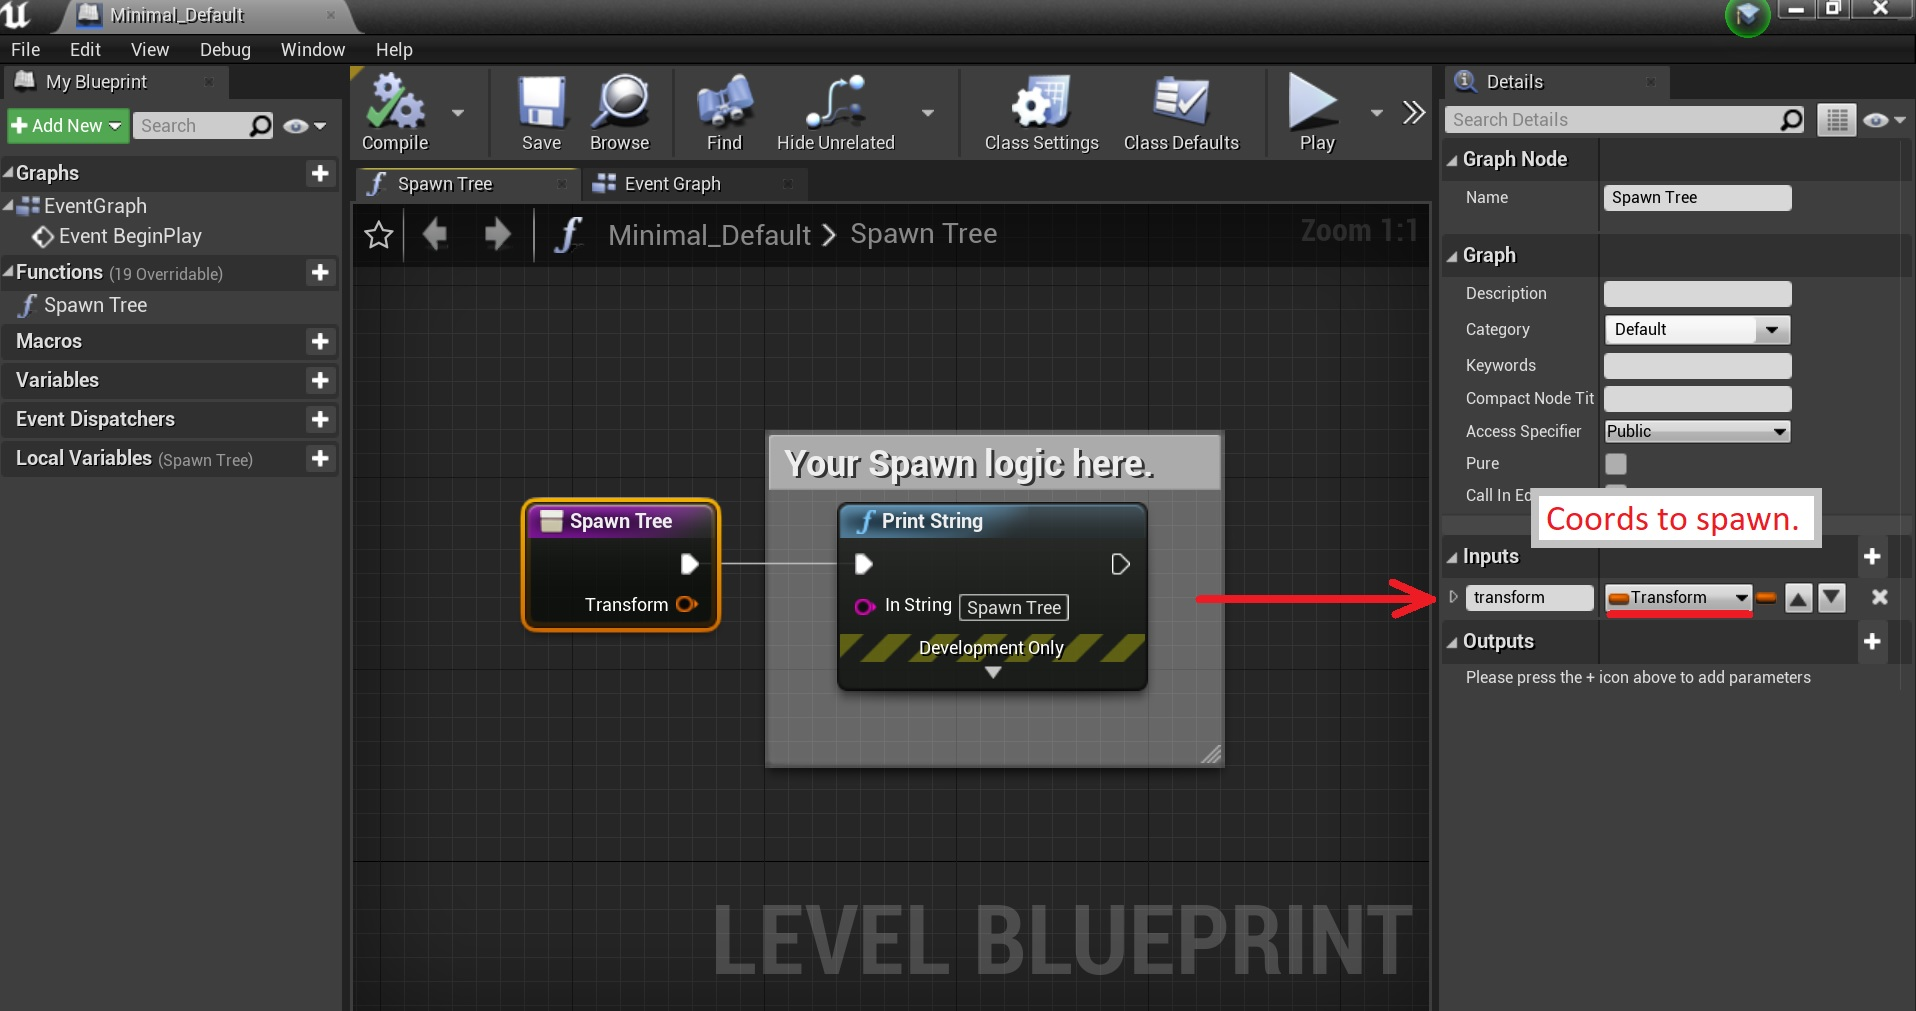
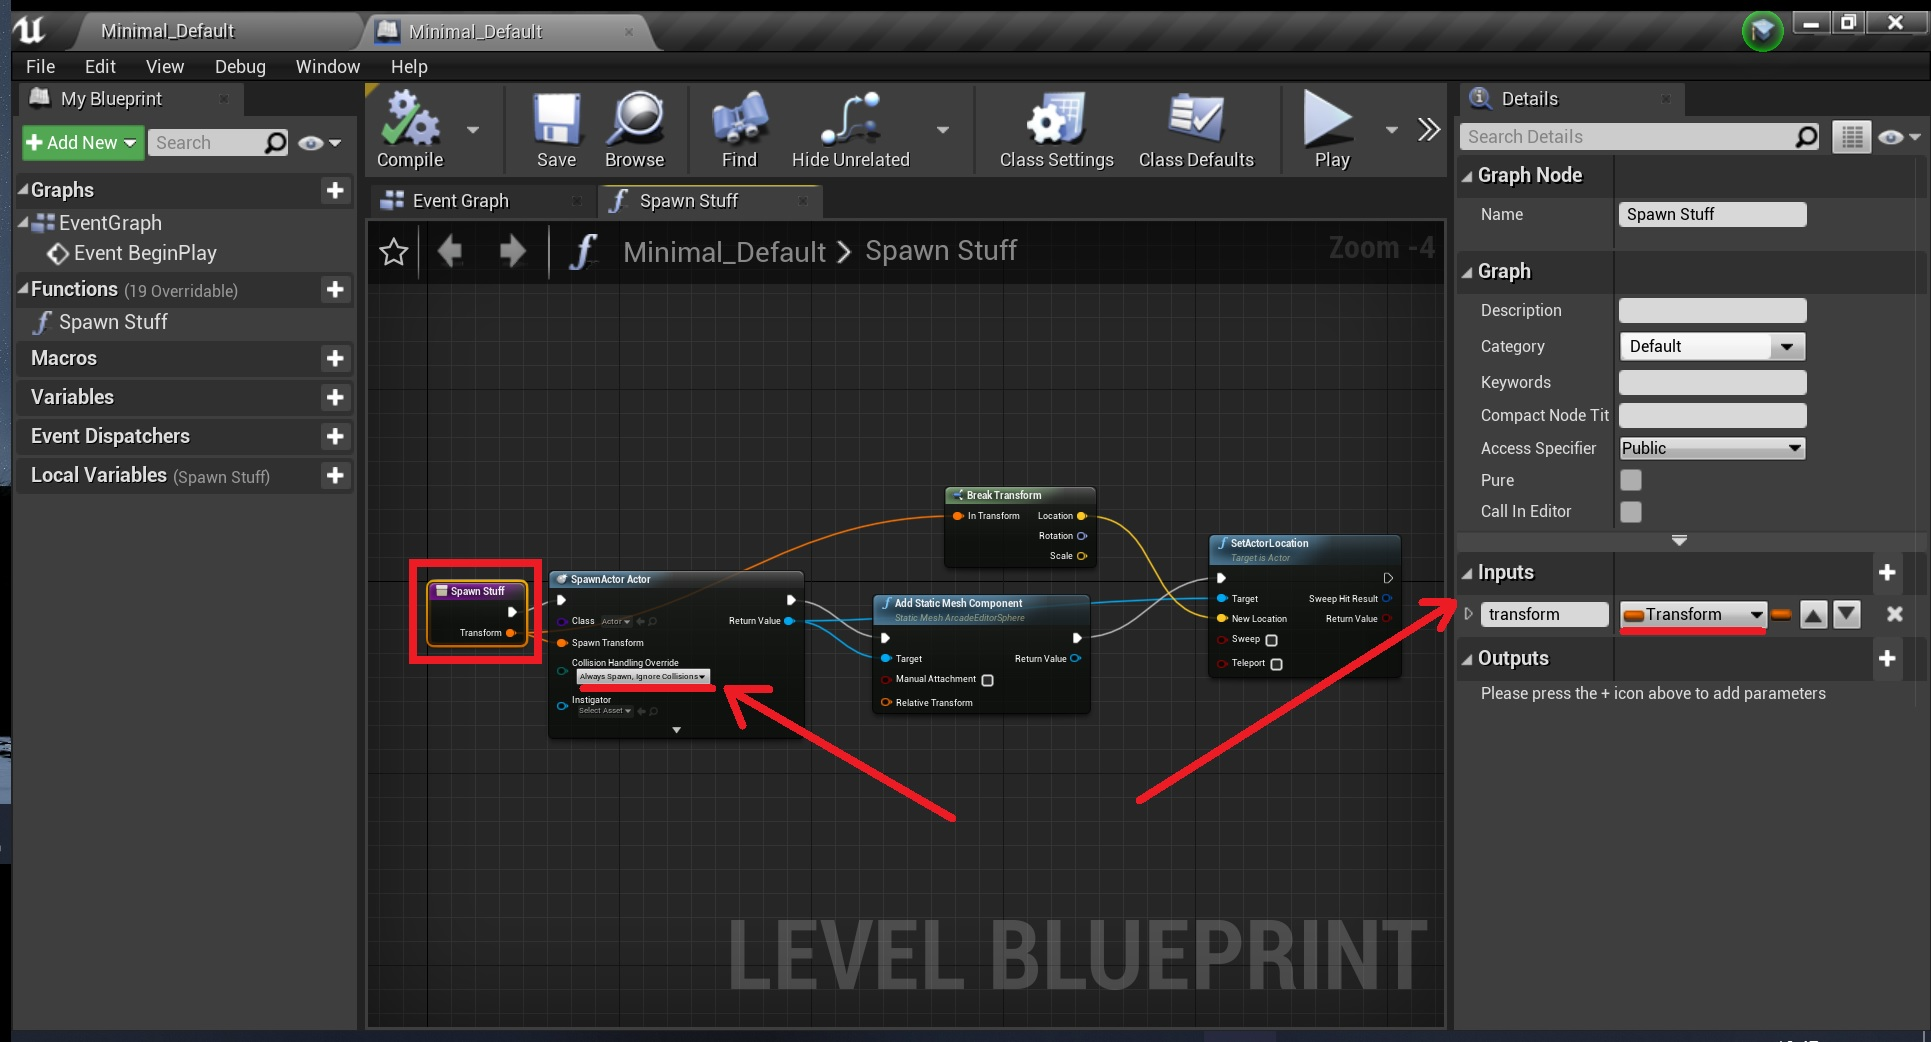
Fixed object spawns and overlap events.

Changed region(s): [[0.0, 0.0, 1.0, 1.0], [0.8314, 0.184, 0.9546, 0.2453]]

diff --git a/Source/FWorldGenerator/Private/FWGen.cpp b/Source/FWorldGenerator/Private/FWGen.cpp
@@ -146,6 +146,23 @@ void AFWGen::UnBindFunctionToSpawn(FString FunctionName)
 	}
 }
 
+void AFWGen::AddOverlapToActorClass(UClass* OverlapToClass)
+{
+	vOverlapToClasses.push_back(OverlapToClass->GetName());
+}
+
+void AFWGen::RemoveOverlapToActorClass(UClass* OverlapToClass)
+{
+	for (size_t i = 0; i < vOverlapToClasses.size(); i++)
+	{
+		if (vOverlapToClasses[i] == OverlapToClass->GetName())
+		{
+			vOverlapToClasses.erase( vOverlapToClasses.begin() + i);
+			break;
+		}
+	}
+}
+
 void AFWGen::GenerateWorld()
 {
 	if (pChunkMap)
@@ -159,13 +176,6 @@ void AFWGen::GenerateWorld()
 	if (WorldSize != -1)
 	{
 		size_t iChunkCount = (ViewDistance * 2 + 1) * (ViewDistance * 2 + 1);
-		std::vector<std::promise<bool>> vPromiseThreads(iChunkCount);
-		std::vector<std::future<bool>> vFutureThreads;
-
-		for (size_t i = 0; i < iChunkCount; i++)
-		{
-			vFutureThreads.push_back(vPromiseThreads[i].get_future());
-		}
 
 
 		// Generate the chunks.
@@ -184,47 +194,19 @@ void AFWGen::GenerateWorld()
 					bAroundCenter = true;
 				}
 
-				std::thread tGenerateChunk(&AFWGen::generateChunk, this, std::move(vPromiseThreads[iSectionIndex]), x, y, iSectionIndex, bAroundCenter);
-				tGenerateChunk.detach();
+				AFWGChunk* pNewChunk = generateChunk(x, y, iSectionIndex, bAroundCenter);
+
+				pChunkMap->addChunk(pNewChunk);
 
 				iSectionIndex++;
 			}
 		}
-
-		for (size_t i = 0; i < vFutureThreads.size(); i++)
-		{
-			vFutureThreads[i].get();
-		}
-
-		std::sort(pChunkMap->vChunks.begin(), pChunkMap->vChunks.end(), [](AFWGChunk* chunk1, AFWGChunk* chunk2) -> bool
-			{
-				return chunk1->iSectionIndex < chunk2->iSectionIndex ? true : false;
-			});
-
-		for (size_t i = 0; i < pChunkMap->vChunks.size(); i++)
-		{
-			pProcMeshComponent->CreateMeshSection_LinearColor(pChunkMap->vChunks[i]->iSectionIndex, pChunkMap->vChunks[i]->vVertices, pChunkMap->vChunks[i]->vTriangles,
-				pChunkMap->vChunks[i]->vNormals, pChunkMap->vChunks[i]->vUV0, pChunkMap->vChunks[i]->vVertexColors,
-				pChunkMap->vChunks[i]->vTangents, true);
-
-			// Set material
-			if (GroundMaterial)
-			{
-				pProcMeshComponent->SetMaterial(pChunkMap->vChunks[i]->iSectionIndex, GroundMaterial);
-			}
-
-			pChunkMap->vChunks[i]->setMeshSection(pProcMeshComponent->GetProcMeshSection(pChunkMap->vChunks[i]->iSectionIndex));
-		}
 	}
 	else
 	{
-		std::promise<bool> promise;
-		std::future<bool> future = promise.get_future();
+		AFWGChunk* pNewChunk = generateChunk(0, 0, 0, false);
 
-		std::thread tGenerateChunk(&AFWGen::generateChunk, this, std::move(promise), 0, 0, 0, false);
-		tGenerateChunk.detach();
-
-		future.get();
+		pChunkMap->addChunk(pNewChunk);
 	}
 
 	if (ApplyGroundMaterialBlend)
@@ -322,10 +304,13 @@ void AFWGen::GenerateWorld()
 				fTriggerY += (pChunkMap->vChunks[i]->iY * ChunkPieceRowCount * ChunkPieceSizeY);
 			}
 
-			/*pChunkMap->vChunks[i]->pTriggerBox->InitBoxExtent(FVector(ChunkPieceColumnCount * ChunkPieceSizeX / 2,
+			pChunkMap->vChunks[i]->SetActorLocation(FVector(fTriggerX, fTriggerY, fTriggerZ));
+			pChunkMap->vChunks[i]->pTriggerBox->SetBoxExtent(FVector(ChunkPieceColumnCount * ChunkPieceSizeX / 2,
 				ChunkPieceRowCount * ChunkPieceSizeY / 2,
 				LoadUnloadChunkMaxZ / 2));
-			pChunkMap->vChunks[i]->pTriggerBox->SetWorldLocation(FVector(fTriggerX, fTriggerY, fTriggerZ));*/
+
+			pChunkMap->vChunks[i]->pTriggerBox->SetGenerateOverlapEvents(true);
+			pChunkMap->vChunks[i]->setOverlapToActors(vOverlapToClasses);
 
 #if WITH_EDITOR
 			if (DrawChunkBounds)
@@ -545,22 +530,91 @@ void AFWGen::applySlopeDependentBlend()
 
 void AFWGen::spawnObjects()
 {
-	FTransform transform = FTransform(FRotator(0, 0, 0), FVector(0, 0, 0), FVector(1, 1, 1));
+	std::mt19937_64 gen(std::random_device{}());
 
-	vObjectsToSpawn[0].pOwner->ProcessEvent( vObjectsToSpawn[0].pFunction, &transform);
+	std::uniform_real_distribution<float> urd(0.0f, 1.0f);
 
-	/*for (size_t i = 0; i < pChunkMap->vChunks.size(); i++)
+	std::sort(vObjectsToSpawn.begin(), vObjectsToSpawn.end(),
+		[](const FWGCallback& a, const FWGCallback& b) -> bool
+		{
+			return a.fProbabilityToSpawn < b.fProbabilityToSpawn;
+		});
+
+	for (size_t i = 0; i < pChunkMap->vChunks.size(); i++)
 	{
+		float fChunkX = GetActorLocation().X;
+		float fChunkY = GetActorLocation().Y;
+
+		if (pChunkMap->vChunks[i]->iX != 0)
+		{
+			fChunkX += (pChunkMap->vChunks[i]->iX * ChunkPieceColumnCount * ChunkPieceSizeX);
+		}
+
+		if (pChunkMap->vChunks[i]->iY != 0)
+		{
+			fChunkY += (pChunkMap->vChunks[i]->iY * ChunkPieceRowCount * ChunkPieceSizeY);
+		}
+
+		float fStartX = fChunkX - (ChunkPieceColumnCount * ChunkPieceSizeX) / 2;
+		float fStartY = fChunkY - (ChunkPieceRowCount * ChunkPieceSizeY) / 2;
+
+		float fXCellSize = ChunkPieceColumnCount * ChunkPieceSizeX;
+		float fYCellSize = ChunkPieceRowCount    * ChunkPieceSizeY;
+
+
 		for (size_t y = 0; y < pChunkMap->vChunks[i]->vChunkCells.size(); y++)
 		{
 			for (size_t x = 0; x < pChunkMap->vChunks[i]->vChunkCells[y].size(); x++)
 			{
-				FTransform transform = FTransform(FRotator(0, 0, 0), FVector(0, 0, 0), FVector(1, 1, 1));
+				float fGeneratedProbForThisCell = urd(gen);
+				float fFullProb = 0.0f;
 
-				vObjectsToSpawn[i].pOwner->ProcessEvent( vObjectsToSpawn[i].pFunction, &transform);
+				for (size_t k = 0; k < vObjectsToSpawn.size(); k++)
+				{
+					float fNextValue = 1.0f - fFullProb;
+					if (k != vObjectsToSpawn.size() - 1)
+					{
+						fNextValue =  vObjectsToSpawn[k].fProbabilityToSpawn;
+					}
+
+					if ((fGeneratedProbForThisCell > fFullProb) && (fGeneratedProbForThisCell <= fFullProb + fNextValue) )
+					{
+						FVector location;
+						location.X = fStartX + x * fXCellSize + fXCellSize / 2;
+						location.Y = fStartY + y * fYCellSize + fYCellSize / 2;
+						location.Z = GetActorLocation().Z;
+						
+
+
+						FHitResult OutHit;
+						FVector TraceStart(location.X, location.Y, GetActorLocation().Z + GenerationMaxZFromActorZ + 5.0f);
+						FVector TraceEnd(location.X, location.Y, GetActorLocation().Z - 5.0f);
+						FCollisionQueryParams CollisionParams;
+
+						if (GetWorld()->LineTraceSingleByChannel(OutHit, TraceStart, TraceEnd, ECC_Visibility, CollisionParams))
+						{
+							if (OutHit.bBlockingHit)
+							{
+								location.Z = OutHit.ImpactPoint.Z;
+							}
+						}
+
+
+
+						FTransform transform = FTransform(FRotator(0, 0, 0), location, FVector(1, 1, 1));
+
+						vObjectsToSpawn[k].pOwner->ProcessEvent( vObjectsToSpawn[k].pFunction, &transform);
+
+						fFullProb += vObjectsToSpawn[k].fProbabilityToSpawn;
+
+						break;
+					}
+					
+					fFullProb += vObjectsToSpawn[k].fProbabilityToSpawn;
+				}
 			}
 		}
-	}*/
+	}
 }
 
 #if WITH_EDITOR
@@ -1252,7 +1306,7 @@ float AFWGen::pickVertexMaterial(double height, std::uniform_real_distribution<f
 	return fVertexColor;
 }
 
-void AFWGen::generateChunk(std::promise<bool>&& promise, long long iX, long long iY, int32 iSectionIndex, bool bAroundCenter)
+AFWGChunk* AFWGen::generateChunk(long long iX, long long iY, int32 iSectionIndex, bool bAroundCenter)
 {
 	// Generation setup
 
@@ -1311,8 +1365,11 @@ void AFWGen::generateChunk(std::promise<bool>&& promise, long long iX, long long
 	// Create chunk
 
 	// You don't want to use NewObject for Actors (only UObjects).
-	AFWGChunk* pNewChunk = NewObject<AFWGChunk>(GetTransientPackage(), MakeUniqueObjectName(this, AFWGChunk::StaticClass(), "Chunk_"));
-	//AFWGChunk* pNewChunk = GetWorld()->SpawnActor<AFWGChunk>(AFWGChunk::StaticClass(), FTransform(FRotator(0, 0, 0), FVector(0, 0, 0), FVector(1, 1, 1)));
+	//AFWGChunk* pNewChunk = NewObject<AFWGChunk>(GetTransientPackage(), MakeUniqueObjectName(this, AFWGChunk::StaticClass(), "Chunk_"));
+	FActorSpawnParameters params;
+	params.SpawnCollisionHandlingOverride = ESpawnActorCollisionHandlingMethod::AlwaysSpawn;
+
+	AFWGChunk* pNewChunk = GetWorld()->SpawnActor<AFWGChunk>(AFWGChunk::StaticClass(), FTransform(FRotator(0, 0, 0), FVector(0, 0, 0), FVector(1, 1, 1)), params);
 	pNewChunk->setInit(iX, iY, iSectionIndex, bAroundCenter);
 	pNewChunk->setChunkSize(DivideChunkXCount, DivideChunkYCount);
 
@@ -1460,20 +1517,18 @@ void AFWGen::generateChunk(std::promise<bool>&& promise, long long iX, long long
 
 	pNewChunk->iMaxZVertexIndex = iMaxGeneratedZIndex;
 
-	//pProcMeshComponent->CreateMeshSection_LinearColor(iSectionIndex, pNewChunk->vVertices, pNewChunk->vTriangles, pNewChunk->vNormals,
-	//	pNewChunk->vUV0, pNewChunk->vVertexColors, pNewChunk->vTangents, true);
+	pProcMeshComponent->CreateMeshSection_LinearColor(iSectionIndex, pNewChunk->vVertices, pNewChunk->vTriangles, pNewChunk->vNormals,
+		pNewChunk->vUV0, pNewChunk->vVertexColors, pNewChunk->vTangents, true);
 
-	//// Set material
-	//if (GroundMaterial)
-	//{
-	//	pProcMeshComponent->SetMaterial(iSectionIndex, GroundMaterial);
-	//}
+	// Set material
+	if (GroundMaterial)
+	{
+		pProcMeshComponent->SetMaterial(iSectionIndex, GroundMaterial);
+	}
 
-	//pNewChunk->setMeshSection(pProcMeshComponent->GetProcMeshSection(iSectionIndex));
+	pNewChunk->setMeshSection(pProcMeshComponent->GetProcMeshSection(iSectionIndex));
 
-	pChunkMap->addChunk(pNewChunk);
-
-	promise.set_value(true);
+	return pNewChunk;
 }
 
 #if WITH_EDITOR

diff --git a/Source/FWorldGenerator/Private/FWGChunk.cpp b/Source/FWorldGenerator/Private/FWGChunk.cpp
@@ -16,9 +16,9 @@ AFWGChunk::AFWGChunk()
 {
 	pTriggerBox = CreateDefaultSubobject<UBoxComponent>(MakeUniqueObjectName(this, UBoxComponent::StaticClass(), "Trigger"));
 	pTriggerBox->SetupAttachment(RootComponent);
-	pTriggerBox->SetCollisionEnabled(ECollisionEnabled::QueryOnly);
-	pTriggerBox->SetGenerateOverlapEvents(true);
-	pTriggerBox->BodyInstance.SetCollisionProfileName(TEXT("Pawn"));
+	pTriggerBox->SetCollisionEnabled(ECollisionEnabled::NoCollision);
+	//pTriggerBox->SetGenerateOverlapEvents(true);
+	pTriggerBox->BodyInstance.SetCollisionProfileName(TEXT("OverlapAll"));
 	
 	// need to have this on BeginPlay because here they can cause some problems when working with blueprints
 	//pTriggerBox->OnComponentBeginOverlap.AddDynamic(this, &AFWGChunk::OnBeginOverlap);
@@ -53,6 +53,11 @@ void AFWGChunk::setChunkSize(int32 iXCount, int32 iYCount)
 	{
 		vChunkCells[i].resize(iXCount);
 	}
+}
+
+void AFWGChunk::setOverlapToActors(std::vector<FString> vClasses)
+{
+	vClassesToOverlap = vClasses;
 }
 
 void AFWGChunk::clearChunk()
@@ -92,7 +97,15 @@ void AFWGChunk::OnBeginOverlap(UPrimitiveComponent* OverlappedComp, AActor* Othe
 {
 	if ( (OtherActor != nullptr ) && (OtherActor != this) && ( OtherComp != nullptr ) )  
 	{
-		GEngine->AddOnScreenDebugMessage(-1, 5.f, FColor::Red, TEXT("Overlap Begin"));
+		for (size_t i = 0; i < vClassesToOverlap.size(); i++)
+		{
+			if (OtherActor->GetClass()->GetName() == vClassesToOverlap[i])
+			{
+				GEngine->AddOnScreenDebugMessage(-1, 5.f, FColor::Red, TEXT("Overlap Begin"));
+
+				break;
+			}
+		}
 	}
 }
 
@@ -100,6 +113,14 @@ void AFWGChunk::OnEndOverlap(UPrimitiveComponent* OverlappedComp, AActor* OtherA
 {
 	if ( (OtherActor != nullptr ) && (OtherActor != this) && ( OtherComp != nullptr ) ) 
 	{
-		GEngine->AddOnScreenDebugMessage(-1, 5.f, FColor::Red, TEXT("Overlap End"));
+		for (size_t i = 0; i < vClassesToOverlap.size(); i++)
+		{
+			if (OtherActor->GetClass()->GetName() == vClassesToOverlap[i])
+			{
+				GEngine->AddOnScreenDebugMessage(-1, 5.f, FColor::Red, TEXT("Overlap End"));
+
+				break;
+			}
+		}
 	}
 }

diff --git a/Source/FWorldGenerator/Public/FWGen.h b/Source/FWorldGenerator/Public/FWGen.h
@@ -14,7 +14,6 @@
 // STL
 #include <vector>
 #include <random>
-#include <future>
 #include <thread>
 
 // Custom
@@ -49,6 +48,12 @@ public:
 
 	UFUNCTION(BlueprintCallable, Category = "FWorldGenerator")
 		void          UnBindFunctionToSpawn(FString FunctionName);
+
+	UFUNCTION(BlueprintCallable, Category = "FWorldGenerator")
+		void          AddOverlapToActorClass(UClass* OverlapToClass);
+
+	UFUNCTION(BlueprintCallable, Category = "FWorldGenerator")
+		void          RemoveOverlapToActorClass(UClass* OverlapToClass);
 
 	UFUNCTION(BlueprintCallable, Category = "FWorldGenerator")
 		void          GenerateWorld();
@@ -330,7 +335,7 @@ protected:
 
 private:
 
-	void  generateChunk            (std::promise<bool>&& promise, long long iX, long long iY, int32 iSectionIndex, bool bAroundCenter);
+	AFWGChunk*  generateChunk       (long long iX, long long iY, int32 iSectionIndex, bool bAroundCenter);
 	void  generateSeed             ();
 	float pickVertexMaterial       (double height, std::uniform_real_distribution<float>* pUrd, std::mt19937_64* pRnd, float* pfLayerTypeWithoutRnd = nullptr);
 	void  blendWorldMaterialsMore  ();
@@ -345,6 +350,7 @@ private:
 #endif // WITH_EDITOR
 
 	std::vector<FWGCallback>  vObjectsToSpawn;
+	std::vector<FString>      vOverlapToClasses;
 
 
 	UPROPERTY()

diff --git a/Source/FWorldGenerator/Private/FWGChunk.h b/Source/FWorldGenerator/Private/FWGChunk.h
@@ -29,6 +29,7 @@ public:
 
 	void setInit(long long iX, long long iY, int32 iSectionIndex, bool bAroundCenter);
 	void setChunkSize(int32 iXCount, int32 iYCount);
+	void setOverlapToActors(std::vector<FString> vClasses);
 	void clearChunk();
 	void setMeshSection(FProcMeshSection* pMeshSection);
 
@@ -72,6 +73,9 @@ public:
 protected:
 
 	virtual void BeginPlay() override;
+
+
+	std::vector<FString>      vClassesToOverlap;
 
 	bool                      bAroundCenter;
 };

diff --git a/README.md b/README.md
@@ -102,6 +102,10 @@ If you want your terrain to have only one material then you can just connect you
 To use the generator just place an object of the <b>FWGen</b> class (search in the Modes tab in UE) in your level and configure its details. Don't forget to enable Complex Preview if you want to see how it looks.<br>
 To generate the world in the runtime you need to call the <b>GenerateWorld()</b> function from this object.
 
+# Load/unload chunks logic
+
+Chunks of the world will be loaded and unloaded depending on where the player is going. But before calling GenerateWorld() you need to call AddOverlapToActorClass() function and add a class that will be considered as a player. You may add more than one class. Use RemoveOverlapToActorClass() to remove classes from considered as a player.
+
 # How to spawn custom objects in world randomly
 
 If you want FWorldGenerator to spawn your custom objects in the world such as trees, then you need to call BindFunctionToSpawn function and pass a name of the function which will be called on GenerateWorld() and the parameter of this function will be position in which you will need to spawn an object by yourself.
@@ -114,8 +118,12 @@ If you want FWorldGenerator to spawn your custom objects in the world such as tr
 "Function Name" should be a function that accepts Transform as the only parameter.
 <p align="center">
   <img width="700" height="400" src="pics/Example BindFunctionToSpawn 1.jpg">
+</p>
+And here is the example of how you want to spawn your actors:
+<p align="center">
   <img width="700" height="400" src="pics/Example BindFunctionToSpawn 2.jpg">
 </p>
+
 <br>
 You need to control your probabilities manually, so that the probabilities of different objects add up to 1.0.
 
